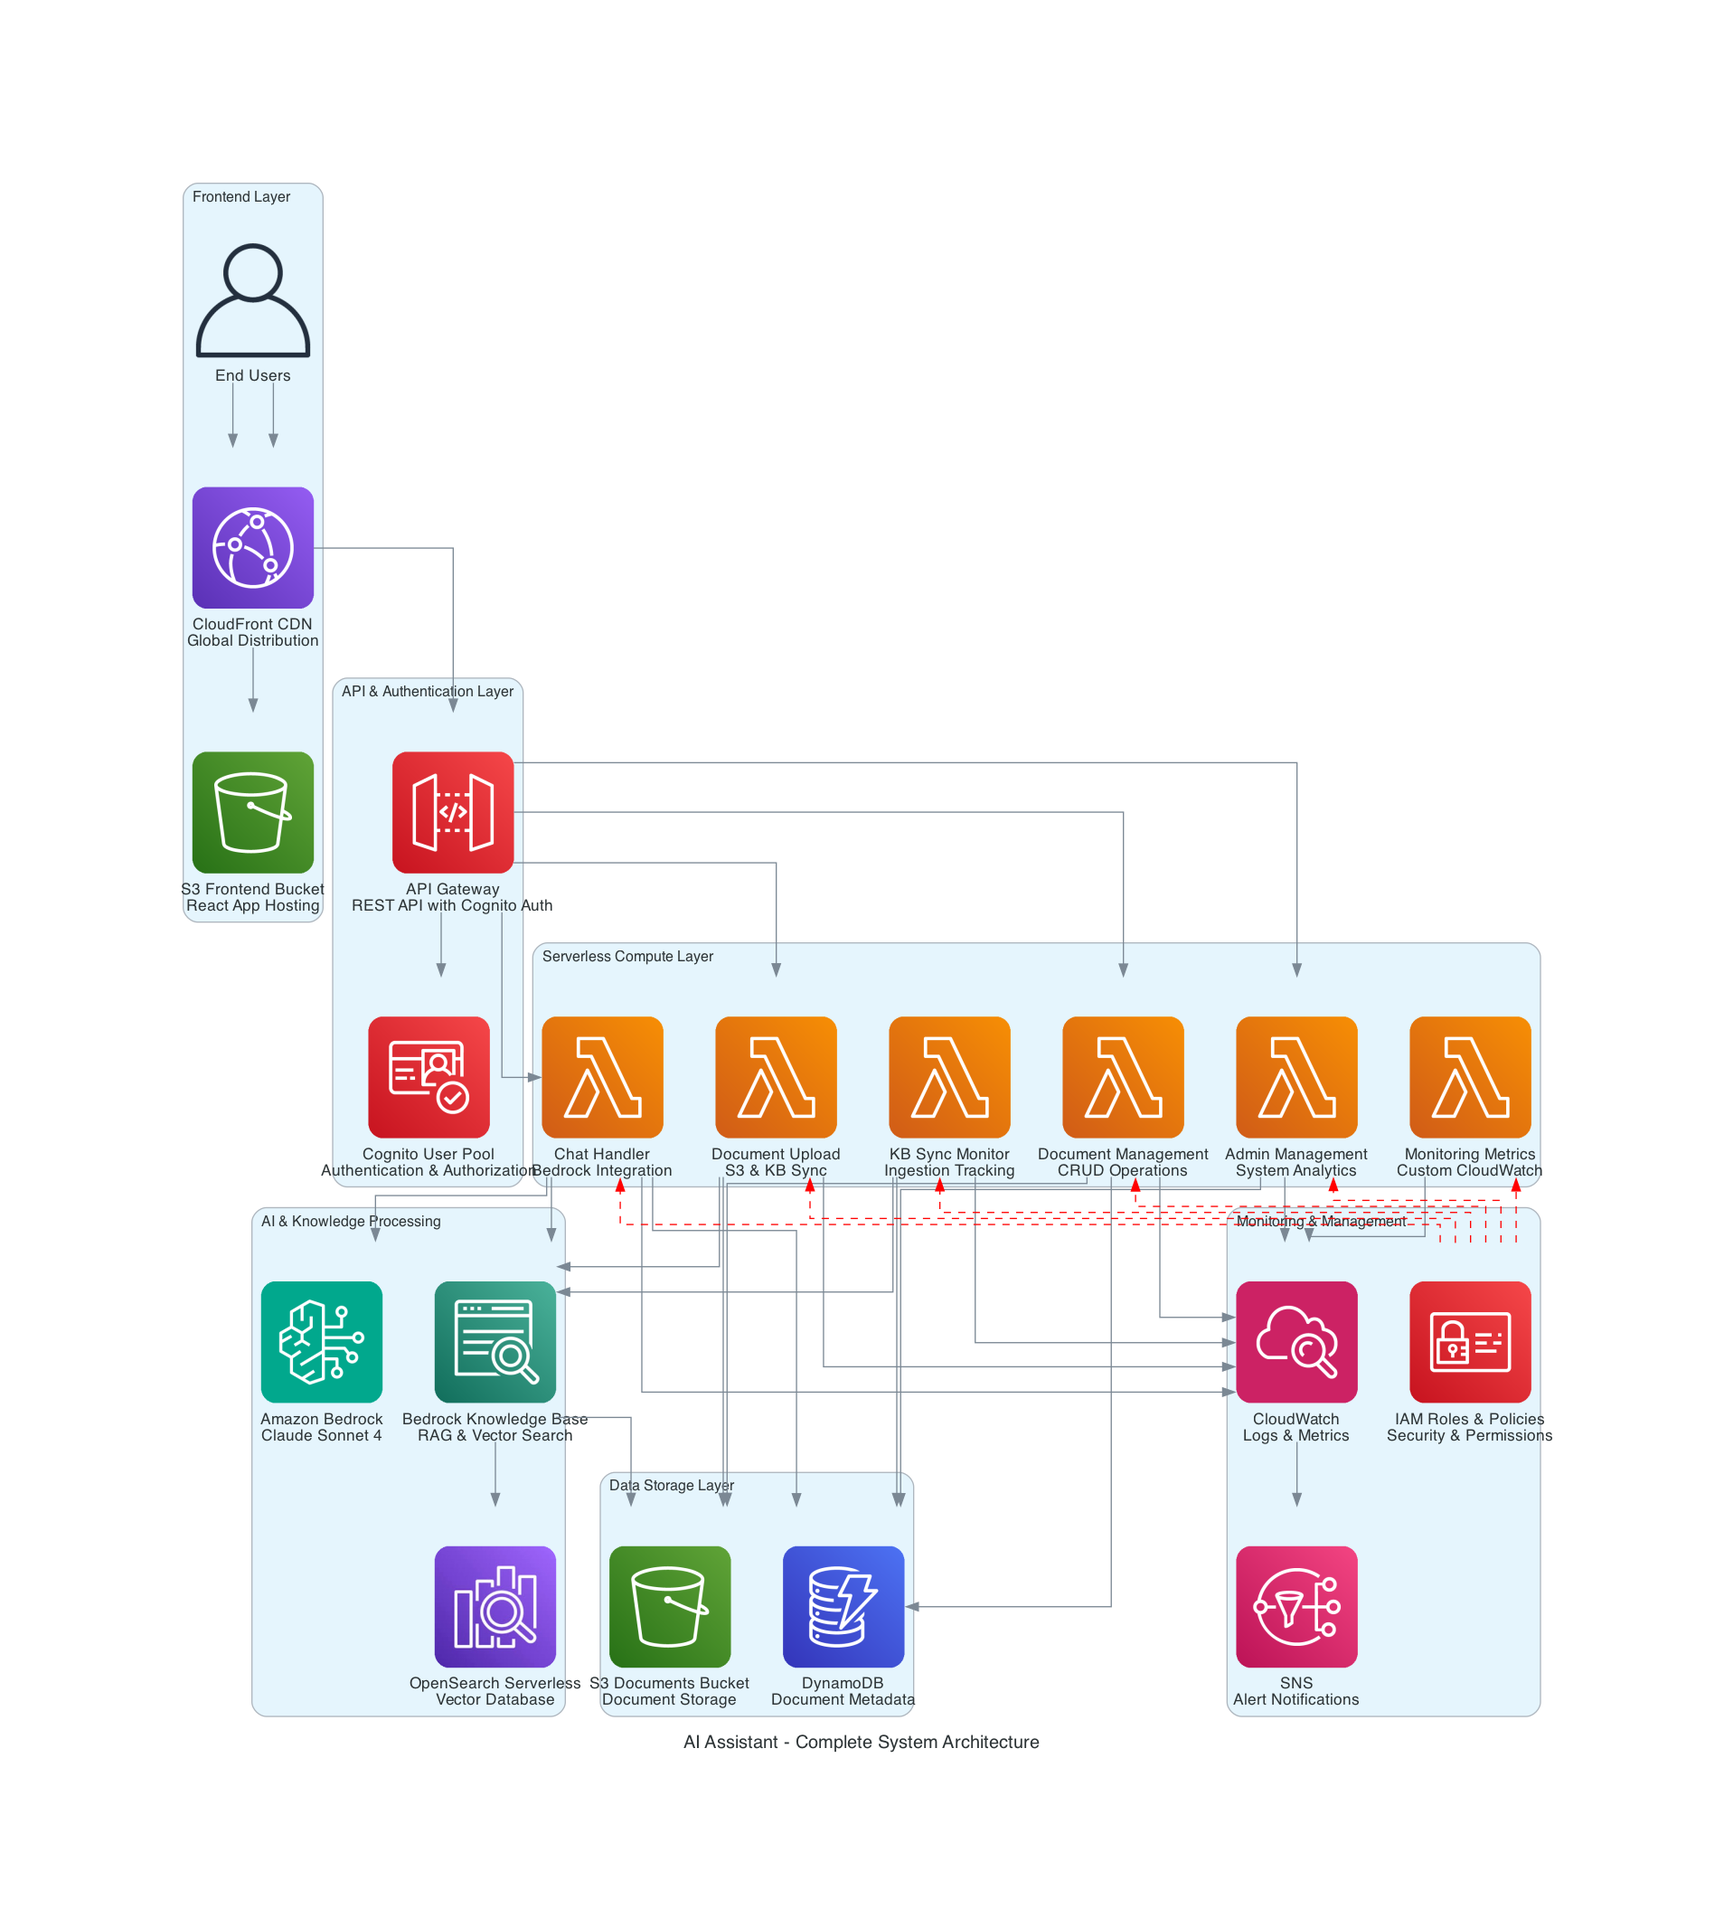
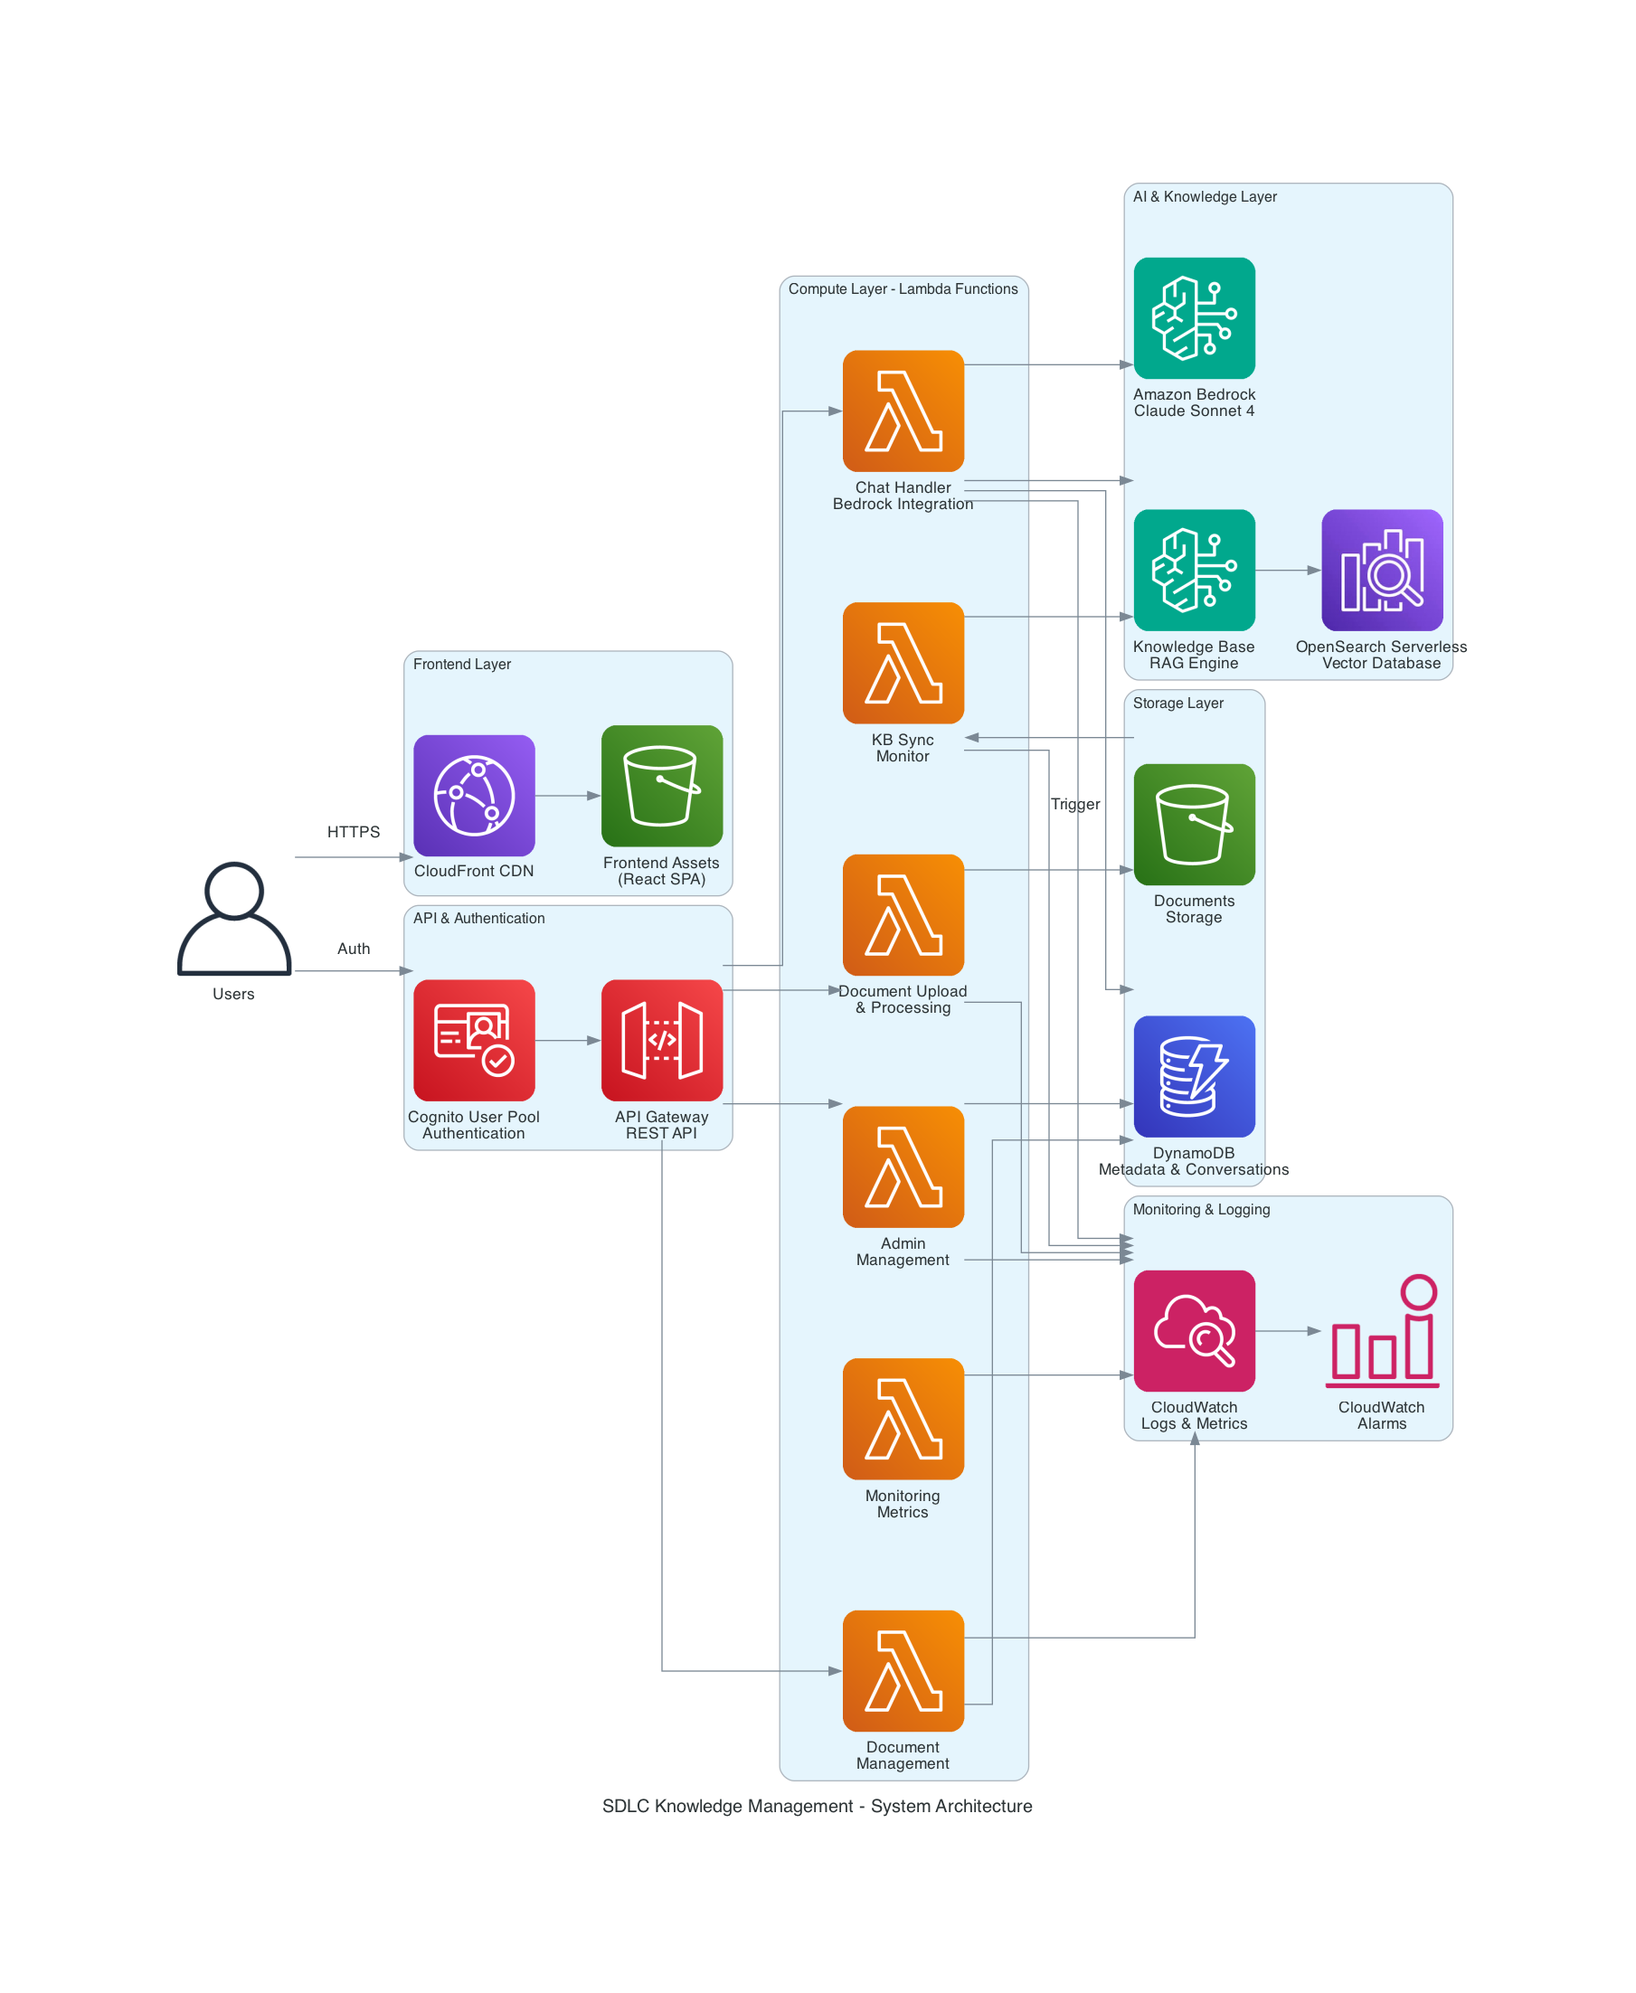
feat: Update architecture diagrams and documentation
- Regenerated all architecture diagrams using AWS MCP diagrams server
- Removed sensitive information (account numbers, profile names, resource IDs)
- Added comprehensive ARCHITECTURE.md documentation
- Updated diagrams follow AWS architecture guidelines
- Added new deployment architecture diagram
- Sanitized README.md to use generic placeholders

Diagrams updated:
- ai-assistant-architecture.png (system overview)
- ai-assistant-data-flow.png (user interactions)
- ai-assistant-security-architecture.png (security layers)
- ai-assistant-deployment-architecture.png (regional deployment) [NEW]

All diagrams now use consistent AWS icons and professional layouts
suitable for public sharing and documentation.

diff --git a/all-phases/sdlc-knowledge-management/ARCHITECTURE.md b/all-phases/sdlc-knowledge-management/ARCHITECTURE.md
@@ -1,0 +1,273 @@
+# SDLC Knowledge Management - Architecture Documentation
+
+This document provides comprehensive architecture documentation for the SDLC Knowledge Management system, following AWS architecture diagram best practices and guidelines.
+
+## Architecture Overview
+
+The SDLC Knowledge Management system is built using a modern serverless architecture on AWS, designed for scalability, security, and operational excellence. The system follows AWS Well-Architected Framework principles across all five pillars.
+
+## Architecture Diagrams
+
+### 1. System Architecture
+![System Architecture](./generated-diagrams/ai-assistant-architecture.png)
+
+**Purpose**: Shows the complete system architecture with all AWS services and their relationships.
+
+**Key Components**:
+- **Frontend Layer**: CloudFront CDN serving React SPA from S3
+- **API & Authentication**: API Gateway with Cognito User Pool authentication
+- **Compute Layer**: 6 specialized Lambda functions for different responsibilities
+- **AI & Knowledge Layer**: Amazon Bedrock with Knowledge Base and OpenSearch Serverless
+- **Storage Layer**: S3 for documents, DynamoDB for metadata and conversations
+- **Monitoring Layer**: CloudWatch for logs, metrics, and alarms
+
+**Design Principles Applied**:
+- ✅ Clear service boundaries and responsibilities
+- ✅ Consistent AWS icon usage (latest official icon set)
+- ✅ Logical grouping with clusters
+- ✅ Left-to-right data flow (user to services)
+- ✅ Account boundary clearly depicted
+
+### 2. Data Flow & User Interactions
+![Data Flow](./generated-diagrams/ai-assistant-data-flow.png)
+
+**Purpose**: Illustrates the six primary user workflows and data movement through the system.
+
+**User Workflows**:
+1. **Frontend Access** - Global CDN delivery with React SPA
+2. **Authentication Flow** - OAuth 2.0 with JWT tokens via Cognito
+3. **Document Upload Flow** - Multi-part upload with automatic Knowledge Base sync
+4. **AI Chat Flow** - RAG-powered conversations with source citations
+5. **Document Management** - Full CRUD operations with status tracking
+6. **Admin Dashboard** - System analytics and user management
+
+**Design Principles Applied**:
+- ✅ Top-to-bottom flow showing user journey
+- ✅ Color-coded flows for different user interactions
+- ✅ Numbered workflow steps for clarity
+- ✅ Dashed lines for return/response flows
+- ✅ Clear data flow direction with arrows
+
+### 3. Security Architecture
+![Security Architecture](./generated-diagrams/ai-assistant-security-architecture.png)
+
+**Purpose**: Details security controls, encryption, and access management across all layers.
+
+**Security Layers**:
+- **Public Layer**: CloudFront HTTPS-only, API Gateway with CORS, WAF protection
+- **Authentication & Authorization**: Cognito OAuth 2.0, IAM roles with least privilege
+- **Compute Security**: Lambda execution roles, Secrets Manager integration
+- **Data Security**: S3 SSE-S3 encryption, DynamoDB encryption at rest, OpenSearch VPC
+- **AI Services Security**: Bedrock model access control, Knowledge Base data isolation
+- **Monitoring & Auditing**: CloudTrail API auditing, CloudWatch encrypted logs, AWS Config
+
+**Design Principles Applied**:
+- ✅ AWS account boundary clearly shown
+- ✅ Security controls grouped by layer
+- ✅ Color-coded security flows
+- ✅ Encryption and access controls highlighted
+- ✅ Audit trail connections shown
+
+### 4. Deployment Architecture
+![Deployment Architecture](./generated-diagrams/ai-assistant-deployment-architecture.png)
+
+**Purpose**: Shows regional deployment, availability zones, and disaster recovery setup.
+
+**Deployment Details**:
+- **Global Services**: CloudFront edge locations, Route 53 DNS
+- **Primary Region**: US-West-2 with multi-AZ deployment
+- **Availability Zones**: Lambda functions distributed across AZ-A and AZ-B
+- **Regional Services**: API Gateway, Cognito, Bedrock, OpenSearch (regional scope)
+- **Cross-Region Backup**: Optional US-East-1 backup with S3 replication and DynamoDB Global Tables
+
+**Design Principles Applied**:
+- ✅ Regional and zonal service scopes correctly depicted
+- ✅ Multi-AZ deployment shown for high availability
+- ✅ Cross-region replication with dashed lines
+- ✅ Global vs regional services clearly distinguished
+- ✅ Backup/DR components visually differentiated
+
+## Architecture Decisions & Rationale
+
+### Technology Choices
+
+| Component | Technology | Rationale |
+|-----------|------------|-----------|
+| **Frontend** | React + TypeScript + Vite | Modern development experience, type safety, fast builds |
+| **CDN** | CloudFront | Global edge locations, origin access control, cost-effective |
+| **API** | API Gateway REST | Managed service, built-in throttling, CORS support |
+| **Authentication** | Cognito User Pools | Managed OAuth 2.0, JWT tokens, MFA support |
+| **Compute** | Lambda Functions | Serverless, auto-scaling, pay-per-use pricing |
+| **AI/ML** | Amazon Bedrock | Managed AI service, Claude Sonnet 4, no infrastructure |
+| **Vector Search** | OpenSearch Serverless | Managed vector database, automatic scaling |
+| **Document Storage** | S3 | Unlimited storage, versioning, lifecycle policies |
+| **Metadata Storage** | DynamoDB | NoSQL, single-digit millisecond latency, auto-scaling |
+| **Monitoring** | CloudWatch | Native AWS integration, custom metrics, alerting |
+
+### Design Patterns
+
+#### 1. Microservices Architecture
+- **6 specialized Lambda functions** for different responsibilities
+- **Single responsibility principle** - each function has one clear purpose
+- **Loose coupling** - functions communicate via API Gateway and shared storage
+- **Independent deployment** - each function can be updated independently
+
+#### 2. Event-Driven Architecture
+- **S3 event triggers** for automatic Knowledge Base synchronization
+- **CloudWatch Events** for scheduled monitoring tasks
+- **API Gateway integration** for synchronous request/response patterns
+- **Asynchronous processing** for document upload and processing
+
+#### 3. Security by Design
+- **Defense in depth** - multiple security layers
+- **Least privilege access** - IAM roles with minimal permissions
+- **Encryption everywhere** - data encrypted at rest and in transit
+- **Zero trust model** - every request authenticated and authorized
+
+#### 4. Observability First
+- **Structured logging** - JSON logs with correlation IDs
+- **Custom metrics** - business and technical metrics in CloudWatch
+- **Distributed tracing** - request tracking across services
+- **Proactive monitoring** - alarms and automated responses
+
+## Performance Characteristics
+
+### Response Time Targets
+- **Chat API Response**: < 10 seconds (95th percentile)
+- **Document Upload**: < 5 minutes for processing
+- **Search Queries**: < 2 seconds for document retrieval
+- **Frontend Load**: < 200ms via CloudFront CDN
+- **API Gateway**: < 100ms for authentication
+
+### Scalability Limits
+- **Concurrent Users**: 1000+ simultaneous users supported
+- **Document Storage**: Unlimited via S3
+- **Vector Database**: Auto-scaling OpenSearch Serverless
+- **Lambda Concurrency**: 1000 concurrent executions per function
+- **API Rate Limits**: Configurable throttling per user/API key
+
+### Cost Optimization
+- **Serverless Architecture**: Pay-per-use pricing model
+- **S3 Intelligent Tiering**: Automatic cost optimization for storage
+- **DynamoDB On-Demand**: Pay for actual read/write capacity
+- **Lambda Provisioned Concurrency**: Only for high-traffic functions
+- **CloudFront Caching**: Reduced origin requests and costs
+
+## Security Implementation
+
+### Authentication & Authorization
+```
+User Request → CloudFront → API Gateway → Cognito JWT Validation → Lambda Function
+```
+
+### Data Encryption
+- **In Transit**: HTTPS/TLS 1.2+ for all communications
+- **At Rest**: 
+  - S3: SSE-S3 encryption
+  - DynamoDB: Encryption at rest with AWS managed keys
+  - OpenSearch: Encryption at rest and in transit
+  - Lambda: Environment variables encrypted with KMS
+
+### Network Security
+- **CloudFront**: HTTPS-only, custom SSL certificates
+- **API Gateway**: CORS configuration, request validation
+- **Lambda**: VPC configuration optional (currently public subnet)
+- **OpenSearch**: VPC-only access, security groups
+
+### Access Control
+- **IAM Roles**: Least privilege principle
+- **Resource-based Policies**: S3 bucket policies, Lambda resource policies
+- **Cognito User Pools**: User management, MFA support
+- **API Keys**: Rate limiting and usage tracking
+
+## Monitoring & Observability
+
+### CloudWatch Metrics
+- **Custom Business Metrics**: Chat sessions, document uploads, user activity
+- **Technical Metrics**: Lambda duration, API Gateway latency, error rates
+- **Cost Metrics**: Service usage and billing alerts
+- **Performance Metrics**: Response times, throughput, availability
+
+### Logging Strategy
+- **Structured Logging**: JSON format with correlation IDs
+- **Log Aggregation**: CloudWatch Logs with retention policies
+- **Error Tracking**: Centralized error logging and alerting
+- **Audit Logging**: CloudTrail for API calls and resource changes
+
+### Alerting & Notifications
+- **CloudWatch Alarms**: Threshold-based alerting
+- **SNS Integration**: Email and SMS notifications
+- **Lambda Dead Letter Queues**: Failed execution handling
+- **Custom Dashboards**: Real-time system health monitoring
+
+## Disaster Recovery & Business Continuity
+
+### Backup Strategy
+- **S3 Cross-Region Replication**: Automatic backup to US-East-1
+- **DynamoDB Point-in-Time Recovery**: 35-day backup retention
+- **Lambda Function Versioning**: Code version management
+- **Infrastructure as Code**: Terraform for environment recreation
+
+### High Availability
+- **Multi-AZ Deployment**: Lambda functions across availability zones
+- **Auto-Scaling**: Automatic capacity adjustment
+- **Health Checks**: API Gateway and CloudWatch monitoring
+- **Failover Procedures**: Documented recovery processes
+
+### Recovery Time Objectives (RTO)
+- **Frontend**: < 5 minutes (CloudFront cache)
+- **API Services**: < 15 minutes (Lambda cold start)
+- **Database**: < 30 minutes (DynamoDB recovery)
+- **Full System**: < 1 hour (complete environment recreation)
+
+## Compliance & Governance
+
+### AWS Well-Architected Framework
+- **Operational Excellence**: Infrastructure as Code, monitoring, automation
+- **Security**: Defense in depth, encryption, access control
+- **Reliability**: Multi-AZ, auto-scaling, error handling
+- **Performance Efficiency**: Serverless, caching, optimization
+- **Cost Optimization**: Pay-per-use, resource right-sizing
+
+### Data Governance
+- **Data Classification**: Public, internal, confidential data handling
+- **Retention Policies**: Automated lifecycle management
+- **Access Logging**: Complete audit trail of data access
+- **Privacy Controls**: User data isolation and deletion capabilities
+
+## Future Architecture Considerations
+
+### Scalability Enhancements
+- **API Gateway Caching**: Response caching for improved performance
+- **Lambda Provisioned Concurrency**: For high-traffic endpoints
+- **DynamoDB Global Tables**: Multi-region active-active setup
+- **ElastiCache Integration**: Redis caching layer
+
+### Security Improvements
+- **VPC Endpoints**: Private connectivity to AWS services
+- **AWS WAF Rules**: Advanced threat protection
+- **GuardDuty Integration**: Threat detection and response
+- **Secrets Rotation**: Automated credential management
+
+### Operational Enhancements
+- **X-Ray Tracing**: Distributed request tracing
+- **Container Migration**: ECS/Fargate for long-running processes
+- **Step Functions**: Complex workflow orchestration
+- **EventBridge**: Advanced event routing and processing
+
+---
+
+## Diagram Maintenance
+
+These architecture diagrams are maintained using the AWS MCP Diagram Server and follow the [AWS Architecture Diagram Guidelines](https://dev.to/aws-builders/aws-architecture-diagrams-guidelines-595d).
+
+**Update Process**:
+1. Modify diagram code using AWS MCP tools
+2. Regenerate diagrams with consistent AWS icons
+3. Update this documentation
+4. Review with architecture team
+5. Commit changes to version control
+
+**Last Updated**: December 2024
+**Diagram Version**: 2.0
+**AWS Icon Set**: Latest official AWS architecture icons

diff --git a/all-phases/sdlc-knowledge-management/README.md b/all-phases/sdlc-knowledge-management/README.md
@@ -123,7 +123,7 @@ Security implementation following AWS best practices:
 
 ### **Prerequisites**
 - **AWS Account** with administrative permissions
-- **AWS CLI** configured with `aidlc_main` profile
+- **AWS CLI** configured with appropriate AWS profile
 - **Terraform** v1.0+ installed
 - **Node.js** v18+ and npm installed
 - **Python 3.9+** for Lambda functions
@@ -166,13 +166,13 @@ echo "📄 Documents Bucket: $DOCUMENTS_BUCKET"
 echo "🤖 Knowledge Base ID: $KB_ID"
 
 # 6. Upload sample documents (optional)
-aws s3 cp sample-docs/ s3://$DOCUMENTS_BUCKET/documents/ --recursive --profile aidlc_main
+aws s3 cp sample-docs/ s3://$DOCUMENTS_BUCKET/documents/ --recursive --profile YOUR_AWS_PROFILE
 
 # 7. Trigger Knowledge Base sync
 aws bedrock-agent start-ingestion-job \
   --knowledge-base-id $KB_ID \
   --data-source-id $DATA_SOURCE_ID \
-  --profile aidlc_main
+  --profile YOUR_AWS_PROFILE
 
 # 8. Run end-to-end tests against your deployment
 cd ../__tests__
@@ -182,7 +182,7 @@ FRONTEND_URL=$CLOUDFRONT_URL npm run test:e2e
 
 ### **Environment Configuration**
 - **🌍 Region**: All resources deployed in `us-west-2`
-- **👤 Profile**: Uses `aidlc_main` AWS CLI profile
+- **👤 Profile**: Uses configured AWS CLI profile
 - **🏷 Tagging**: Consistent resource tagging for cost tracking
 - **🔧 Environment**: Configurable for dev/staging/prod deployments
 
